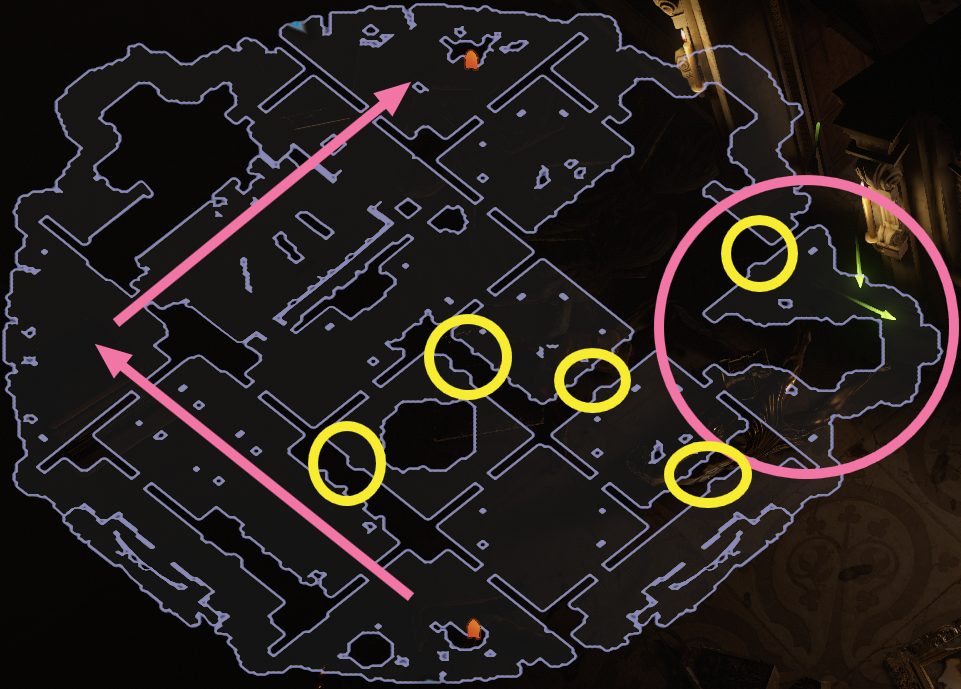
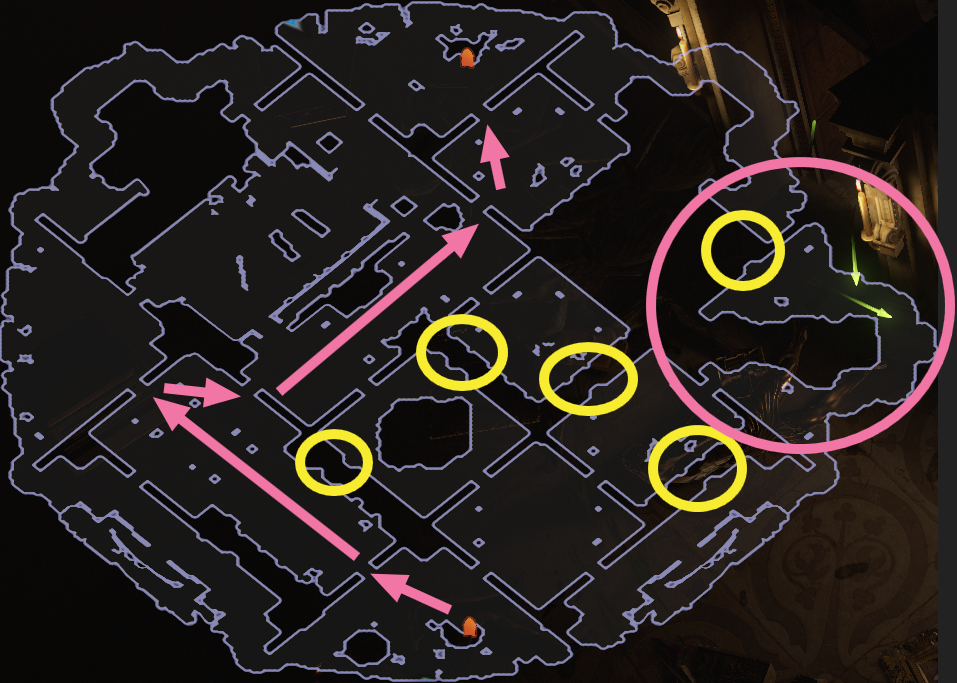
added top10 zones

diff --git a/docs/Act 4/Belly of the Beast 2.md b/docs/Act 4/Belly of the Beast 2.md
@@ -6,10 +6,11 @@ sidebar_position: 12
 
 ## Layout
 
-|                                                                                                                              |                                                                                                                               |
-| ---------------------------------------------------------------------------------------------------------------------------- | ----------------------------------------------------------------------------------------------------------------------------- |
-| 1 Tunnel ![Belly of the Beast 2 Variant 1](<./img/Belly%20of%20the%20Beast%202/Belly%20of%20the%20Beast%202%20(2).png>)      | 2 Long Tunnels ![Belly of the Beast 2 Variant 2](<./img/Belly%20of%20the%20Beast%202/Belly%20of%20the%20Beast%202%20(1).png>) |
-| 2 Mini Tunnels![Belly of the Beast 2 Variant 4](<./img/Belly%20of%20the%20Beast%202/Belly%20of%20the%20Beast%202%20(4).png>) | 2 Tunnels ![Belly of the Beast 2 Variant 3](<./img/Belly%20of%20the%20Beast%202/Belly%20of%20the%20Beast%202%20(3).png>)      |
+|                                                                                                                                    |                                                                                                                               |
+| ---------------------------------------------------------------------------------------------------------------------------------- | ----------------------------------------------------------------------------------------------------------------------------- |
+| 1 Tunnel ![Belly of the Beast 2 Variant 1](<./img/Belly%20of%20the%20Beast%202/Belly%20of%20the%20Beast%202%20(2).png>)            | 2 Long Tunnels ![Belly of the Beast 2 Variant 2](<./img/Belly%20of%20the%20Beast%202/Belly%20of%20the%20Beast%202%20(1).png>) |
+| 2 Mini Tunnels![Belly of the Beast 2 Variant 4](<./img/Belly%20of%20the%20Beast%202/Belly%20of%20the%20Beast%202%20(4).png>)       | 2 Tunnels ![Belly of the Beast 2 Variant 3](<./img/Belly%20of%20the%20Beast%202/Belly%20of%20the%20Beast%202%20(3).png>)      |
+| North Start 2 Tunnels ![Belly of the Beast Variant 5](<./img/Belly%20of%20the%20Beast%202/Belly%20of%20the%20Beast%202%20(5).png>) | Fake 2 Tunnel ![Belly of the Beast Variant 6](<./img/Belly%20of%20the%20Beast%202/Belly%20of%20the%20Beast%202%20(6).png>)    |
 
 ### Point of Interest
 
@@ -17,7 +18,9 @@ Piety and locked Passage
 
 ## Zone Read
 
-There are 4 Belly of the Beast 2 Variants, to differentiate between them move west till you hit a Dead end.
+There are 5 Belly of the Beast 2 Variants, to differentiate between them move west till you hit a Dead end.
+
+- If you start North and the Tunnel face South, you are in the North Start Variant.
 
 - If you directly move into a Dead End you are in the 1 Tunnel Variant. Move North till you can no longer move north, then follow the Passage and always move North if you can again.
 

diff --git a/docs/Act 1/Lower Prison.md b/docs/Act 1/Lower Prison.md
@@ -6,11 +6,12 @@ sidebar_position: 9
 
 ## Layouts
 
-|                                                                                                                       |                                                                                                                         |
-| --------------------------------------------------------------------------------------------------------------------- | ----------------------------------------------------------------------------------------------------------------------- |
-| Straigth Trail from WP, Exit opposite Side ![Lower Prison Variant 1](<./img/Lower%20Prison/Lower%20Prison%20(4).png>) | Late Trial, Exit Same Side ![Lower Prison Variant 2](<./img/Lower%20Prison/Lower%20Prison%20(5).png>)                   |
-| Trial facing North-West, Exit Same Side ![Lower Prison Variant 3](<./img/Lower%20Prison/Lower%20Prison%20(3).png>)    | Nort-East Dead End, Trial and Exit East Side ![Lower Prison Variant 4](<./img/Lower%20Prison/Lower%20Prison%20(6).png>) |
-| Exit paralel to Entrance, fair Trial![Lower Prison Variant 5](<./img/Lower%20Prison/Lower%20Prison%20(2).png>)        | Exit paralel to Entrance, scuffed Trial ![Lower Prison Variant 6](<./img/Lower%20Prison/Lower%20Prison%20(1).png>)      |
+|                                                                                                                       |                                                                                                                           |
+| --------------------------------------------------------------------------------------------------------------------- | ------------------------------------------------------------------------------------------------------------------------- |
+| East Dead End,Trial and Exit opposite Side ![Lower Prison Variant 1](<./img/Lower%20Prison/Lower%20Prison%20(4).png>) | Trial paralel to Waypoint, Exit South-Corner ![Lower Prison Variant 2](<./img/Lower%20Prison/Lower%20Prison%20(5).png>)   |
+|                                                                                                                       | 90° Corner with smooth Edge, Exit South-Corner ![Lower Prison Variant 7](<./img/Lower%20Prison/Lower%20Prison%20(7).png>) |
+| Trial facing North-West, Exit Same Side ![Lower Prison Variant 3](<./img/Lower%20Prison/Lower%20Prison%20(3).png>)    | Late Trial, Trial Exit same Side ![Lower Prison Variant 4](<./img/Lower%20Prison/Lower%20Prison%20(6).png>)               |
+| Exit paralel to Entrance, fair Trial![Lower Prison Variant 5](<./img/Lower%20Prison/Lower%20Prison%20(2).png>)        | Exit paralel to Entrance, scuffed Trial ![Lower Prison Variant 6](<./img/Lower%20Prison/Lower%20Prison%20(1).png>)        |
 
 ### Points of Interest
 

diff --git a/docs/Act 3/Solaris Temple 1.md b/docs/Act 3/Solaris Temple 1.md
@@ -6,10 +6,11 @@ sidebar_position: 10
 
 ## Layouts
 
-| Waypoint Corner pointing West                                                            | Waypoint Corner Pointing East                                                            |
-| ---------------------------------------------------------------------------------------- | ---------------------------------------------------------------------------------------- |
-| ![Solaris Temple Variant 1](<./img/Solaris%20Temple%201/Solaris%20Temple%201%20(1).png>) | ![Solaris Temple Variant 2](<./img/Solaris%20Temple%201/Solaris%20Temple%201%20(3).png>) |
-| ![Solaris Temple Variant 3](<./img/Solaris%20Temple%201/Solaris%20Temple%201%20(2).png>) |                                                                                          |
+| Waypoint Corner pointing West                                                                                                         | Waypoint Corner Pointing East                                                                                                         | Waypoint Corner Pointing South                                                           | Waypoint Corner Pointing North                                                           |
+| ------------------------------------------------------------------------------------------------------------------------------------- | ------------------------------------------------------------------------------------------------------------------------------------- | ---------------------------------------------------------------------------------------- | ---------------------------------------------------------------------------------------- |
+| Waypoint paralel to Entrance Corridor ![Solaris Temple Variant 1](<./img/Solaris%20Temple%201/Solaris%20Temple%201%20(1).png>)        | Entrance paralel to Exit, Long Passage North ![Solaris Temple Variant 2](<./img/Solaris%20Temple%201/Solaris%20Temple%201%20(3).png>) | ![Solaris Temple Variant 3](<./img/Solaris%20Temple%201/Solaris%20Temple%201%20(4).png>) | ![Solaris Temple Variant 7](<./img/Solaris%20Temple%201/Solaris%20Temple%201%20(6).png>) |
+| Waypoint paralel to Entrance Stairs ![Solaris Temple Variant 3](<./img/Solaris%20Temple%201/Solaris%20Temple%201%20(2).png>)          |                                                                                                                                       |                                                                                          |
+| Entrance paralel to Exit, Long Passage South ![Solaris Temple Variant 5](<./img/Solaris%20Temple%201/Solaris%20Temple%201%20(5).png>) |
 
 ### Point of Interest
 

diff --git a/docs/Act 4/Mines 2.md b/docs/Act 4/Mines 2.md
@@ -6,10 +6,11 @@ sidebar_position: 5
 
 ## Layout
 
-| Entrance at the Top                                                               | Entrance at the Bottom                                                               |
-| --------------------------------------------------------------------------------- | ------------------------------------------------------------------------------------ |
-| Deshret on the Path ![Mines 2 Variant 1](<./img/Mines%202/Mines%202%20(1).png>)   | Deshret on the Long Path ![Mines 2 Variant 3](<./img/Mines%202/Mines%202%20(4).png>) |
-| Deshret in a Dead End ![Mines 2 Variant 2](<./img/Mines%202/Mines%202%20(2).png>) | Deshret in a Dead End ![Mines 2 Variant 4](<./img/Mines%202/Mines%202%20(3).png>)    |
+| Entrance at the Top                                                                      | Entrance at the Bottom                                                               |
+| ---------------------------------------------------------------------------------------- | ------------------------------------------------------------------------------------ |
+| Deshret on the Path ![Mines 2 Variant 1](<./img/Mines%202/Mines%202%20(1).png>)          | Deshret on the Long Path ![Mines 2 Variant 3](<./img/Mines%202/Mines%202%20(4).png>) |
+| Deshret in a Dead End East ![Mines 2 Variant 2](<./img/Mines%202/Mines%202%20(2).png>)   | Deshret in a Dead End ![Mines 2 Variant 4](<./img/Mines%202/Mines%202%20(3).png>)    |
+| Deshrest in a Dead End South ![Mines 2 Variant 5](<./img/Mines%202/Mines%202%20(5).png>) |
 
 ### Point of Interest
 
@@ -19,7 +20,9 @@ Deshret's Spirit
 
 Mines 2 can be determined based on the Layout and the general Path the Zone takes.  
 If the Zone extends South, follow the Path till you see Deshret Spirit, free here, then continue.
-Knowing roughly where the Exit is helps with avoiding Dead Ends. If you hit the South Edge without finding the Exit, then the Exit is in the East Corner.
+
+- Deshret might be in a Dead End East or South. Just Follow the Path along the Outer Edge of the Zone till you see the Quest Icon.
+  Knowing roughly where the Exit is helps with avoiding Dead Ends. If you hit the South Edge without finding the Exit, then the Exit is in the East Corner.
 
 If the Zone extends North, follow the Path, if the Zone quickly ends South and you can only move North stick ot the East Edge of the Zone to find Deshret.
 

diff --git a/docs/Top 10 Zones to learn.md b/docs/Top 10 Zones to learn.md
@@ -1,0 +1,58 @@
+---
+sidebar_position: 2
+---
+
+# The Top 10 Zones to learn.
+
+## Video Version
+
+<iframe
+  width="560"
+  height="315"
+  src="https://www.youtube.com/embed/CqCyavqP7Cg"
+  title="YouTube video player"
+  frameborder="0"
+  allow="accelerometer; autoplay; clipboard-write; encrypted-media; gyroscope; picture-in-picture"
+  allowfullscreen
+></iframe>
+
+## Written Links
+
+Act 1: [Upper Prison](./Act%201/Upper%20Prison.md)  
+Act 2: [Vaal Ruins](./Act%202/Vaal%20Ruins.md) | Bonus: [Crypt](./Act%202/Crypt.md) (Easy to Learn)  
+Act 3: [Lunaris Temple 2](./Act%203/Lunaris%20Temple%202.md)  
+Act 4: [Belly of the Beast 2](./Act%204/Belly%20of%20the%20Beast%202.md)  
+Act 5: [Templar](./Act%205/Templar%20Courts.md) / [Torched Courts](./Act%205/Torched%20Courts.md)  
+Act 6: [Ridge](./Act%206/Ridge.md)  
+Act 7: [Vaal City](./Act%207/Vaal%20City.md)  
+Act 8: [Grain Gate](./Act%208/Grain%20Gate.md)  
+Act 9: [Belly of the Beast](./Act%209/Belly%20of%20the%20Beast.md)  
+Act 10: [Ravaged Square](./Act%2010/Ruined%20Square.md)
+
+## Basics
+
+:::tip Important to note
+While Layouts are great at reducing Campaign Time, the biggest Factor is the Basics, as they apply to all Zones, all Layouts, and can even help in the Endgame.
+:::
+
+<iframe
+  width="560"
+  height="315"
+  src="https://www.youtube.com/embed/iOjBhZ96kHs"
+  title="YouTube video player"
+  frameborder="0"
+  allow="accelerometer; autoplay; clipboard-write; encrypted-media; gyroscope; picture-in-picture"
+  allowfullscreen
+></iframe>
+
+<br/>
+
+<iframe
+  width="560"
+  height="315"
+  src="https://www.youtube.com/embed/t8FHCg0s-CI"
+  title="YouTube video player"
+  frameborder="0"
+  allow="accelerometer; autoplay; clipboard-write; encrypted-media; gyroscope; picture-in-picture"
+  allowfullscreen
+></iframe>

diff --git a/docs/Act 9/Oasis.md b/docs/Act 9/Oasis.md
@@ -6,9 +6,9 @@ sidebar_position: 5
 
 ## Layouts
 
-| North Layout                                      | South Layout                                      |
-| ------------------------------------------------- | ------------------------------------------------- |
-| ![Oasis Variant 1](<./img/Oasis/Oasis%20(1).png>) | ![Oasis Variant 2](<./img/Oasis/Oasis%20(2).png>) |
+| North Layout                                      | South Layout                                      | West Layout                                       |
+| ------------------------------------------------- | ------------------------------------------------- | ------------------------------------------------- |
+| ![Oasis Variant 1](<./img/Oasis/Oasis%20(1).png>) | ![Oasis Variant 2](<./img/Oasis/Oasis%20(2).png>) | ![Oasis Variant 3](<./img/Oasis/Oasis%20(3).png>) |
 
 ## Zone Read
 
@@ -18,6 +18,12 @@ If you start at the North Corner, move South.
 Otherwise move North
 :::
 
-Oasis either extends North or South. While it is a big open Zone like Vastiri Desert, the Variant can quickly be identified. IF the Zone let's you move North, you are in the North Variant. Otherwise you are at the North Corner and the Sand Pit Boss Arena is in the South Corner.
+Oasis either extends North,South or West. While it is a big open Zone like Vastiri Desert, the Variant can quickly be identified.
+
+- If you spawn at the East Edge, you are in the West Variant and the Sand Pit is in the West Corner.
+
+Otherwise it is the North or South Zone with a East Edge Spawn.
+
+- If the Zone let's you move North, you are in the North Variant. Otherwise you are at the North Corner and the Sand Pit Boss Arena is in the South Corner.
 
 Once you have identified the direction the Zone extends to head into that direction along the East Edge of the Zone.

diff --git a/docs/Act 3/Sceptre of God.md b/docs/Act 3/Sceptre of God.md
@@ -18,19 +18,15 @@ Waypoint
 ## Zone Read
 
 :::tip Simple Read
-Traverse the Zone Clockwise
+Traverse the Zone Clockwise and stay in the inner Square of the Zone
 :::
 
 Sceptre of God consist of 3 Floors, the Exit is always in one of the Corners, on the first Floor it has to be in the North-East or South-East Corner.'
 After that it can be in any Corner, except the one the Entrance to that Floor is in. Choose a Direction and check the first Corner.
-If you hit a Dead End or see that the Corner you move towards has no Staircase to the next Floor, move to the next closest Corner. Usualy it is the next Corner clockwise/counterclockwise. But sometimes the Passage ends and you have to move around a Long Wall.
+Stay in the inner Area of the Zone, if you aproach a Corner and do not get the Door Icon on the Minimap, the Staircaise to the next Floor won't be in that Corner. Check the Corner Clockwise or Counterclockwise
 
 The final Floor has both a Waypoint and the Staircase to the Upper Sceptre of God in its Corners.
 
-:::tip Cyclon's Note
+:::info Cyclon's Note
 My 'vibe' Read of the Zone is to always move into the direction the Stairs places me, this works often enough that it feels correct. Exception is that the Direction I placed in does not have a Door, then I check the other Direction first.
-:::
-
-:::danger Cyclon's Note
-Try to move via the inner rooms of the Zone, the Outside can connect to the Corners, but often only connect to only 1 Side or neither. A Good Example for this is the Second Floor.
 :::

diff --git a/docs/Act 1/Coast.md b/docs/Act 1/Coast.md
@@ -32,14 +32,12 @@ When identifying the Layout as **the Long Coast**, consider logging to Town and 
 
 ### Major Zone Identifier
 
-There are 2 major Zone Identifiers, the _Handgun_ and the _Water Corner_
+There are 2 major Zone Identifiers, the _Handgun_ and the _Cookie Bite_
 
 For the _Handgun_ Layout check the Wall behind it, if you can't walk past it (like in Image 3), head south / south-east.
 If you **can** walk past it (like in Image 4), follow along the opposite Zone Edge to get to the last Ledge downwards and Waypoint.
 
-For the _Water Corner_ Layout check the Water Corner that you will walk into if you go straight North-East. If it is an Indent (like in Image 6 and 7), you can got a longer coast, but not **the Long Coast**. To differentiate between Variant 6 and Variant 7, Variant 6 opens up after the The Wall right above the indent.
-
-If you get a Water Corner (like in Image 8), it is **the Long Coast** Layout.
+For the _Cookie Bite_ Layout check the Wall that you will walk into if you go North-East. If it is an Indent (like in Image 8), you are in **the Long Coast**.
 
 :::info Cyclon's Note
 Ignore all Enemies here,

diff --git a/docs/Act 6/Brine King's Reef.md b/docs/Act 6/Brine King's Reef.md
@@ -22,10 +22,10 @@ Follow the East Edge
 :::
 
 There are 3 Variants, to find the Boss Arena do the following:
-Walk East
+Walk South-West
 
-- If the Zone continues East, walk East till the Zone opens North, then walk North to find the Boss Arena
-- If the Zone ends East and forces you south
-- - Walk South till you hit the South Corner, then Walk North-East
-- - If you see the Boss Arena Entrance, enter it
-- - Otherwise walk North once you hit the East Corner till you see the Boss Room.
+- If the Zone continues West, walk South-West till you see the Book Icon on the Minimap, then walk North to find the Boss Arena.
+- If the Zone ends West and forces you South
+- - Walk South till you see the Book Icon on the Minimap
+- - If the Book Icon is early, then the Boss Arena is in the North-East Corner. Continue South along the East Edge till the Zone lets you move East. Then move North-East to find the Boss Arena.
+- - Otherwise the Boss Arena is in the South-East Corner. Move South till the Zone opens up for the Second Time East, then move East.

diff --git a/docs/Act 2/Chamber of Sins 2.md b/docs/Act 2/Chamber of Sins 2.md
@@ -27,7 +27,7 @@ In the Trial right after entering, the first Section can be skipped by using Bli
 The final Room before the Walkway to the Fidelitas Boss Arena is always the same, it contains 2 Pillars and 1 Lit Fire Basin.
 
 So the first step in Chamber of Sins 2 is locating the Trial. We always head South-East from the Entrance.
-If South is a Dead End, we are in the North extending Variant. We find the trial by following the Wall leading to the North-West Corner of the Zone. And the Fidelitas Arena will be in the North-East Corner.
+If South is a Dead End, we are in the North extending Variant. We find the trial by following the Wall leading to the North-West Corner of the Zone. And the Fidelitas Arena will be in the North-East Corner. The Trial and the Walkway are paralel to each other.
 
 If The Trial is on the East Wall, facing North-East, the Fidelitas Boss Arena will be South and then West from the Trial.
 

diff --git a/docs/Act 10/Ruined Square.md b/docs/Act 10/Ruined Square.md
@@ -2,7 +2,7 @@
 sidebar_position: 3
 ---
 
-# Ruined Square
+# Ravaged Square
 
 ## Layouts
 
@@ -17,7 +17,7 @@ Innocence (once Revived), to unlock the Canals Entrance
 
 ## Zone Read
 
-Ruined Square is a static Layout, it will always look the same. The Keydifference to its Act 5 Variant is that the North Bridge is broken. (And that you enter the Zone at the Cathedral Rooftop)
+Ravaged Square is a static Layout, it will always look the same. The Keydifference to its Act 5 Variant Ruined Square is that the North Bridge is broken. (And that you enter the Zone at the Cathedral Rooftop)
 
 The Blood Fountain is always South-East of the Entrance.
 
